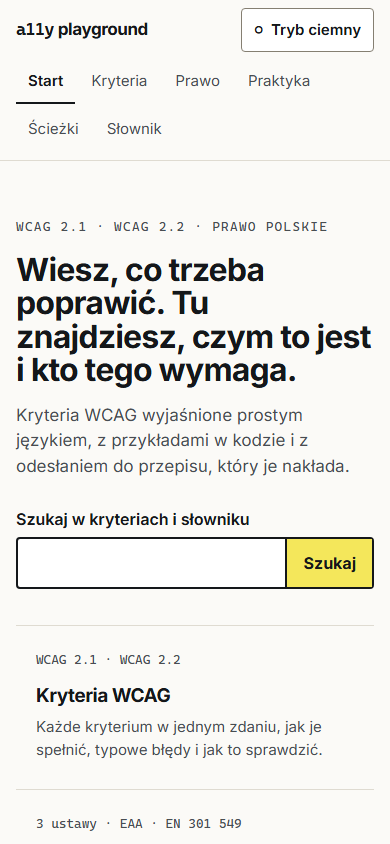
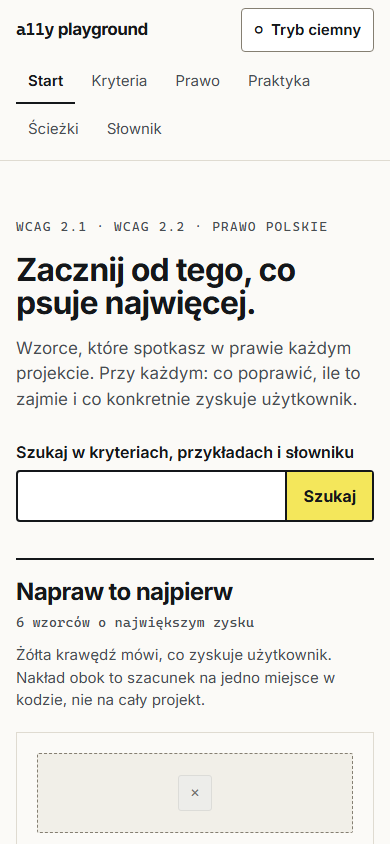
docs: update README for phase 3

diff --git a/README.md b/README.md
@@ -19,11 +19,11 @@ a11y playground is a learning app for people who build digital products in Polan
 The interface is in Polish. This README is in English.
 
 > [!NOTE]
-> The project is in phase 2 (explanations). Every A and AA criterion of WCAG 2.2 has a plain-language explanation, marked as a draft until a person has checked it. AAA criteria get their content in phase 8. Prawo, Praktyka and Ścieżki are placeholders until later phases.
+> The project is in phase 3 (examples). Every A and AA criterion of WCAG 2.2 has a plain-language explanation, and ten common faults have a broken and a fixed example side by side. All content is marked as a draft until a person has checked it. Prawo and Ścieżki are placeholders until later phases.
 
 ### What works today
 
-- Home screen following design variant A ("Trzy drzwi"), with entry points to criteria, law and practice.
+- **Home page** following screen 0 of design variant A: it opens with the six cheapest fixes as cards, then the remaining examples as a list.
 - Main navigation that wraps onto its own row on narrow screens instead of hiding behind a menu button.
 - Light and dark mode. It follows the operating system by default, and the header toggle stores an explicit choice.
 - Skip link, a stable landmark structure, and focus moved to the new `h1` with the page title announced after every client-side route change.
@@ -32,7 +32,8 @@ The interface is in Polish. This README is in English.
 - **Explanations** for all 55 A and AA criteria: who it affects, how to meet it by role, typical errors, how to test it, common confusions. Drafts carry a visible "szkic, czeka na weryfikację" badge.
 - **Normative text** in Polish from the authorized W3C translation of WCAG 2.1, collapsed on each criterion page. The criteria new in 2.2 link to their sources until a licensed Polish text is available.
 - **Glossary** (`/slownik`) of about 30 terms, alphabetical, each with a plain explanation and, where WCAG defines the term, its normative wording. The first use of a term in a criterion links to it, with a small button that opens a short definition.
-- **Search** (`/szukaj`, also on the home page) over criteria and the glossary. It finds criteria by number, name or symptom ("modal", "placeholder") and ignores Polish diacritics.
+- **Search** (`/szukaj`, also on the home page) over criteria, examples and the glossary. It finds criteria by number, name or symptom ("modal", "placeholder") and ignores Polish diacritics.
+- **Practice** (`/praktyka`): ten examples as cards ordered by the cost of the fix, each with what the user gains. An example page (`/praktyka/ikona-jako-przycisk`) shows the broken and the fixed variant side by side, each running in a sandboxed iframe, with its code and what a screen reader says. Examples that move start only when the reader asks. Criterion pages link to their examples.
 
 | Light | Dark | Mobile |
 | --- | --- | --- |
@@ -41,6 +42,10 @@ The interface is in Polish. This README is in English.
 | Criteria list | Criterion page |
 | --- | --- |
 | ![Criteria list with version, level, principle and role filters](docs/screenshots/criteria-list.png) | ![Criterion page for 1.4.3 Kontrast (minimum) with a draft badge](docs/screenshots/criterion-page.png) |
+
+| Practice | Example page |
+| --- | --- |
+| ![Practice catalogue with cards ordered by the cost of the fix](docs/screenshots/practice.png) | ![Example page with the broken and the fixed variant side by side](docs/screenshots/example-page.png) |
 
 | Glossary preview | Glossary | Search |
 | --- | --- | --- |
@@ -117,6 +122,51 @@ To, co czytnik ekranu powie o kontrolce, zanim powie, czym ona jest.
 > [!NOTE]
 > Later the content will be edited in Notion. A sync script will write these same files, so this format stays the contract between editors and the app.
 
+### Examples
+
+One folder per example in `content/praktyka/<slug>/`:
+
+```text
+content/praktyka/ikona-jako-przycisk/
+  index.md    frontmatter and introduction
+  bad.html    the broken fragment
+  good.html   the fixed fragment
+```
+
+```markdown
+---
+title: Ikona jako przycisk
+summary: Znak × bez nazwy zamyka komunikat. Daj przyciskowi nazwę.
+criteria: ["4.1.2", "2.1.1", "1.1.1"]
+effort: 1 linia
+gain: Czytnik mówi „Zamknij komunikat, przycisk” zamiast milczeć.
+preview: <span class="p-x">×</span>
+status: szkic
+bad:
+  why: Znak × w elemencie div z obsługą kliknięcia.
+  announces: Nic sensownego.
+  axe: []
+good:
+  why: Prawdziwy element button z nazwą w aria-label.
+  announces: „Zamknij komunikat, przycisk”.
+---
+Komunikat „Zapisano zmiany” z przyciskiem zamykania w rogu.
+```
+
+- `effort` is one of `1 linia`, `1 token`, `2 minuty`, `15 minut`, `refaktor`. The catalogue and the home page sort by it.
+- `preview` is a small static picture of the fault for the card, built from the `p-*` classes in `src/styles.css`. It is decorative and hidden from screen readers, so `summary` and `gain` must carry the meaning.
+- `motion: true` makes both variants load only after "Uruchom przykład".
+- `bad.axe` lists the axe rules the broken fragment must trigger. Leave it empty when axe cannot see the fault. The tests fail if the fragment does not trigger them.
+- The HTML files are fragments with optional `<style>` and `<script>`. The page shows them as the code, and `/demo/<slug>/bad` and `/demo/<slug>/good` serve them as documents for the sandboxed iframes.
+
+A broken example is broken on purpose, but it runs inside our page. It must never:
+
+- trap keyboard focus with no way out,
+- play sound, move or flash before the reader starts it, or flash more than three times a second,
+- load anything from the network or navigate away.
+
+The tests check that every fixed fragment passes axe, that every page passes axe with the broken iframe excluded, and that nothing from a broken fragment reaches the page's own document.
+
 ### Where the criterion names come from
 
 `pnpm import:wcag` regenerates `src/content/wcag.gen.ts` and `src/content/wcag-text.gen.ts`. It takes numbers, levels and versions from the W3C WCAG 2.2 data. Polish names come from two sources:
@@ -169,15 +219,16 @@ The baseline is WCAG 2.2 Level AA, plus 2.3.3 and 2.5.5 at AAA. See [`docs/acces
 content/
   kryteria/      one Markdown file per criterion
   slownik/       one Markdown file per glossary term
+  praktyka/      one folder per example: index.md, bad.html, good.html
 scripts/
   import-wcag.ts generates src/content/wcag.gen.ts and wcag-text.gen.ts
 src/
   content/       WCAG structure, Markdown parsing and validation, server functions
   search/        search options, index builder and relevance tests
   routes/        file-based routes (__root.tsx holds the layout)
-  components/    header, theme toggle, route announcer, badges, glossary previews
+  components/    header, theme toggle, route announcer, badges, glossary previews, example frames and cards
   styles.css     Tailwind setup, colour tokens, styles for rendered Markdown
-e2e/             Playwright tests: axe, target size, keyboard
+e2e/             Playwright tests: axe, target size, keyboard, example isolation
 docs/
   accessibility.md   the accessibility checklist
   design/            dated plans and mocks
@@ -191,7 +242,7 @@ The full plan, with content scope, architecture and risks, is in [`docs/design/2
 - [x] **0. Foundation.** App shell, navigation, themes, lint, tests, CI.
 - [x] **1. Content skeleton.** WCAG structure with Polish names, Markdown content format, criteria list with filters, prerendered criterion pages.
 - [x] **2. Explanations.** Plain-language drafts for every A and AA criterion, normative text, glossary, search, role filter. Detailed plan: [`docs/design/2026-09-27-phase-2-content`](docs/design/2026-09-27-phase-2-content/phase-2-content.en.html).
-- [ ] **3. Examples.** Bad and good examples, with the bad one isolated in an iframe.
+- [x] **3. Examples.** Ten bad and good examples in sandboxed iframes, the practice catalogue, and the home page built from it. Detailed plan: [`docs/design/2026-09-27-phase-3-examples`](docs/design/2026-09-27-phase-3-examples/phase-3-examples.en.html).
 - [ ] **4. Legal module.** Polish acts, EN 301 549, the law-to-criterion mapping.
 - [ ] **5. Accounts.** Optional progress, notes and bookmarks with Convex.
 - [ ] **6. Paths and quizzes.**
